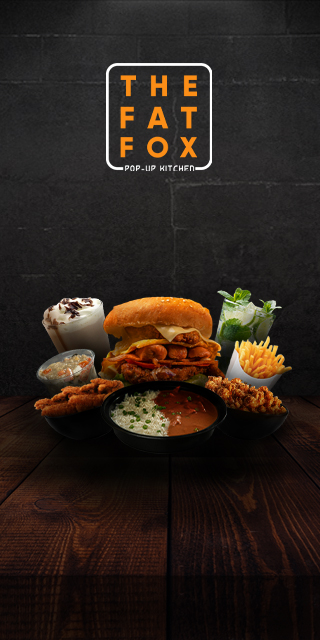
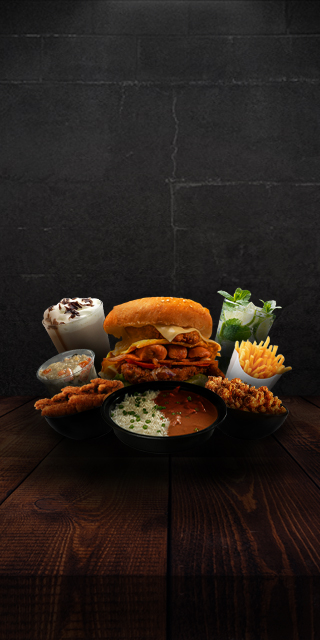
fourth2 commit

Changed region(s): [[0.3125, 0.0938, 0.6875, 0.2812]]

diff --git a/index.html b/index.html
@@ -140,11 +140,6 @@
     }*/
 
     /* Responsive layout */
-    @media screen and (max-width: 600px) {
-      .column {
-        width: 100%;
-      }
-    }
 
     @media screen and (max-width: 767px) {
       .flex-container-feat {
@@ -163,6 +158,7 @@
         background-image: url(img/2nd_banner.jpg);
       }
     }
+    
   </style>
 
   <!-- Fixed navbar -->
@@ -196,6 +192,7 @@
           <div class="row">
             <div class="col-md-8 col-md-offset-2">
               <div class="probootstrap-slider-text text-center probootstrap-animate probootstrap-heading">
+                <h1 class="primary-heading">Order Now!</h1>
               </div>
             </div>
           </div>
@@ -207,6 +204,7 @@
           <div class="row">
             <div class="col-md-8 col-md-offset-2">
               <div class="probootstrap-slider-text text-center probootstrap-animate probootstrap-heading">
+                <h1 class="primary-heading">Order Now!</h1>
               </div>
             </div>
           </div>
@@ -218,6 +216,7 @@
           <div class="row">
             <div class="col-md-8 col-md-offset-2">
               <div class="probootstrap-slider-text text-center probootstrap-animate probootstrap-heading">
+                <h1 class="primary-heading">Order Now!</h1>
               </div>
             </div>
           </div>
@@ -267,21 +266,21 @@
           <div class="half">
 
             <div class="probootstrap-cell probootstrap-animate" data-animate-effect="fadeIn">
-              <div class="image" style="background-image: url(img/img_square_1.jpg);"></div>
+              <div class="image" style="background-image: url(img/burgers.jpg);"></div>
               <div class="text text-center">
                 <h3>BURGERS</h3>
                 <p>Laboriosam pariatur modi praesentium deleniti molestiae officiis atque numquam.</p>
               </div>
             </div>
             <div class="probootstrap-cell reverse probootstrap-animate" data-animate-effect="fadeIn">
-              <div class="image" style="background-image: url(img/img_square_2.jpg);"></div>
+              <div class="image" style="background-image: url(img/pasta.jpg);"></div>
               <div class="text text-center">
                 <h3>PASTA</h3>
                 <p>Laboriosam pariatur modi praesentium deleniti molestiae officiis atque numquam.</p>
               </div>
             </div>
             <div class="probootstrap-cell probootstrap-animate" data-animate-effect="fadeIn">
-              <div class="image" style="background-image: url(img/img_square_3.jpg);"></div>
+              <div class="image" style="background-image: url(img/moms.jpg);"></div>
               <div class="text text-center">
                 <h3>MOMOS</h3>
                 <p>Laboriosam pariatur modi praesentium deleniti molestiae officiis atque numquam.</p>
@@ -292,23 +291,23 @@
           <div class="half">
 
             <div class="probootstrap-cell probootstrap-animate" data-animate-effect="fadeIn">
-              <div class="image" style="background-image: url(img/img_square_4.jpg);"></div>
+              <div class="image" style="background-image: url(img/beverages.jpg);"></div>
               <div class="text text-center">
-                <h3>ENGLISH BREAKFAST</h3>
+                <h3>SHAKES AND COOLERS</h3>
                 <p>Laboriosam pariatur modi praesentium deleniti molestiae officiis atque numquam.</p>
               </div>
             </div>
             <div class="probootstrap-cell reverse probootstrap-animate" data-animate-effect="fadeIn">
-              <div class="image" style="background-image: url(img/img_square_5.jpg);"></div>
+              <div class="image" style="background-image: url(img/starter.jpg);"></div>
               <div class="text text-center">
                 <h3>STARTERS</h3>
                 <p>Laboriosam pariatur modi praesentium deleniti molestiae officiis atque numquam.</p>
               </div>
             </div>
             <div class="probootstrap-cell probootstrap-animate" data-animate-effect="fadeIn">
-              <div class="image" style="background-image: url(img/img_square_1.jpg);"></div>
+              <div class="image" style="background-image: url(img/pizza.jpg);"></div>
               <div class="text text-center">
-                <h3>SANDWICH</h3>
+                <h3>PIZZA</h3>
                 <p>Laboriosam pariatur modi praesentium deleniti molestiae officiis atque numquam.</p>
               </div>
             </div>

diff --git a/css/style.css b/css/style.css
@@ -5,6 +5,8 @@
  * Author URL: https://probootstrap.com
  * License: Released for free under the Creative Commons Attribution 3.0 license (probootstrap.com/license)
  */
+ @import url('https://fonts.googleapis.com/css2?family=Lobster&display=swap');
+
 @font-face {
   font-family: "icomoon";
   src: url("../fonts/icomoon/icomoon.eot?1z9v6x");
@@ -1138,7 +1140,7 @@ section[data-section="menu"] {
 
 @media screen and (max-width: 992px) {
   .probootstrap-cell .image {
-    height: 200px;
+    height: 65vw;
   }
 }
 
@@ -1957,8 +1959,8 @@ section[data-section="menu"] {
 }
 
 .probootstrap-heading .primary-heading {
-  font-family: "Pinyon Script", serif;
   color: #fb8e17;
+  font-family: 'Lobster', cursive;
   margin: 0;
   padding: 0;
   font-size: 80px;
@@ -1966,7 +1968,7 @@ section[data-section="menu"] {
 
 @media screen and (max-width: 768px) {
   .probootstrap-heading .primary-heading {
-    font-size: 70px;
+    font-size: 50px;
   }
 }
 
